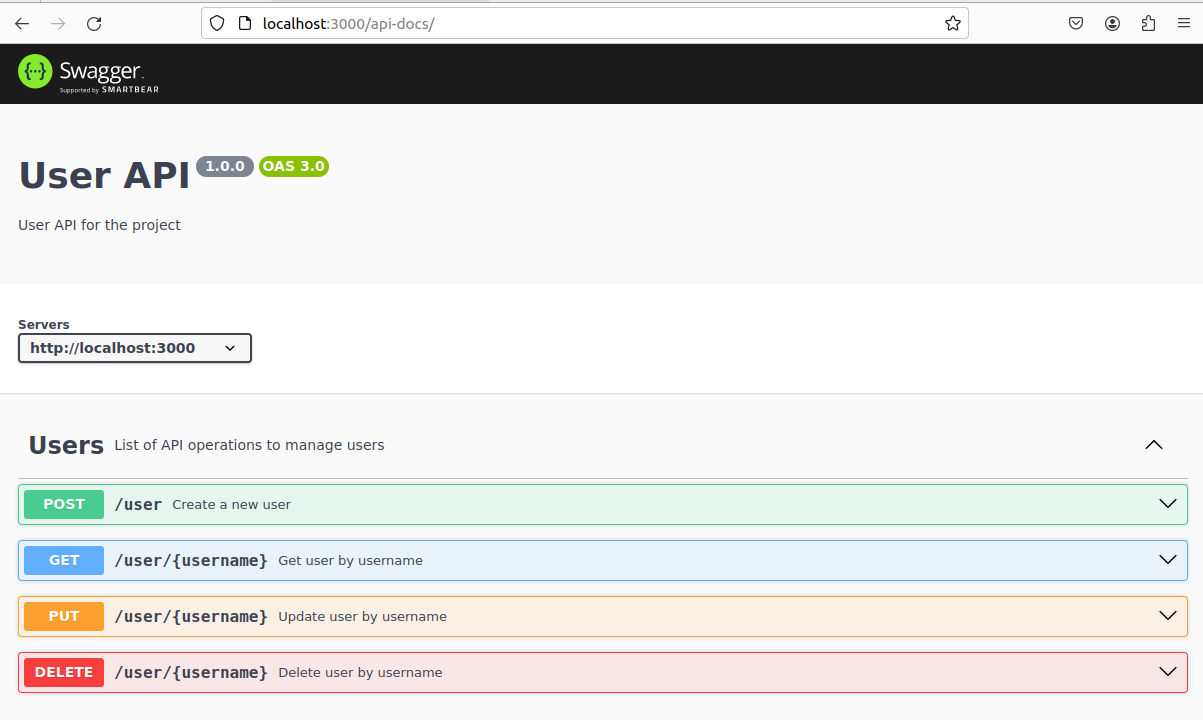
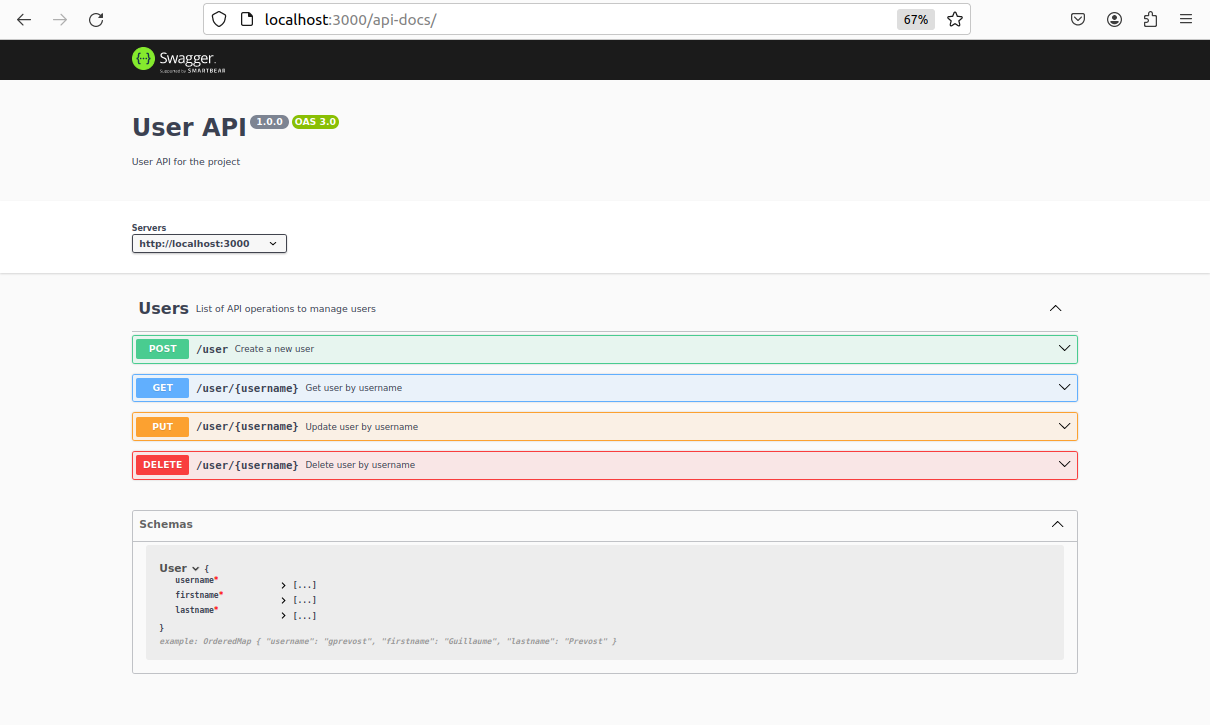
fix: swagger missing component

diff --git a/userapi/src/routes/user.js b/userapi/src/routes/user.js
@@ -7,6 +7,10 @@ const userRouter = express.Router()
  * tags:
  *   name: Users
  *   description: List of API operations to manage users
+ */
+
+/**
+ * @swagger
  * components:
  *   schemas:
  *     User:
@@ -29,6 +33,7 @@ const userRouter = express.Router()
  *         username: gprevost
  *         firstname: Guillaume
  *         lastname: Prevost
+ */
 
 /**
  * @swagger
@@ -133,17 +138,11 @@ userRouter
  *         description: The username of the user
  *         schema:
  *           type: string
- *       - in: body
- *         name: user
- *         required: true
- *         description: The updated user details
- *         schema:
- *           type: object
- *           properties:
- *             email:
- *               type: string
- *             fullName:
- *               type: string
+ *     requestBody: 
+ *       required: true
+ *       description: The updated user details
+ *       schema:
+ *         $ref: '#/components/schemas/User'
  *     responses:
  *       '200':
  *         description: OK
@@ -230,4 +229,3 @@ userRouter
         });
     });
 module.exports = userRouter
-
